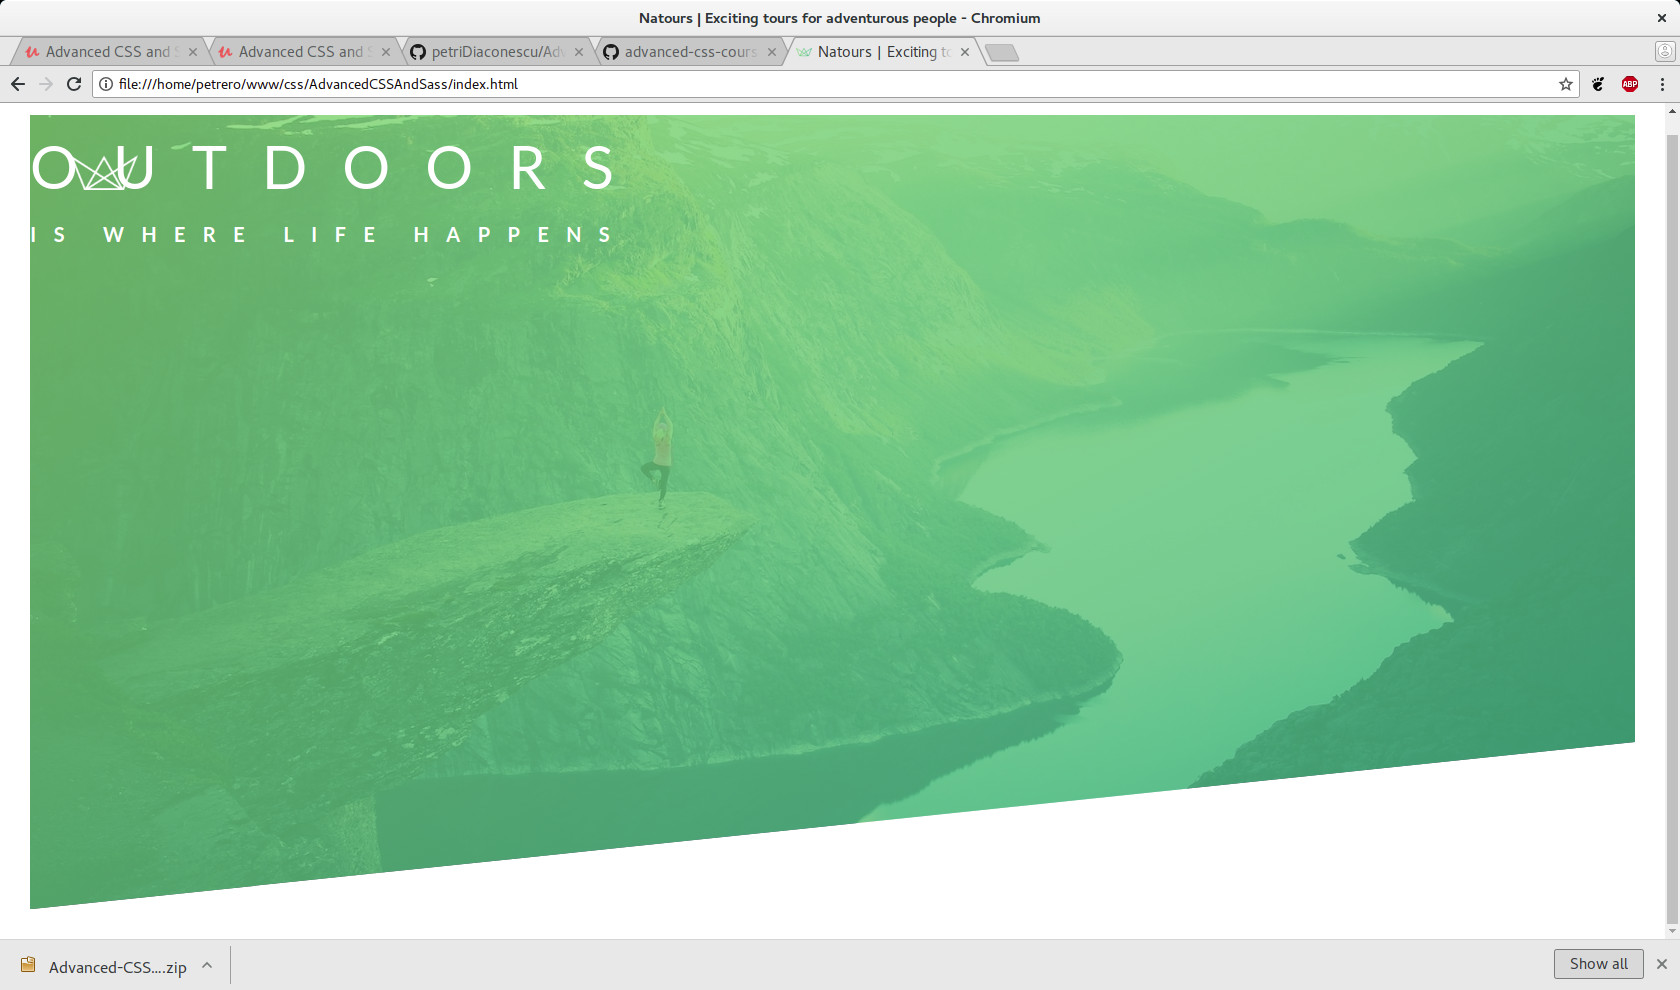
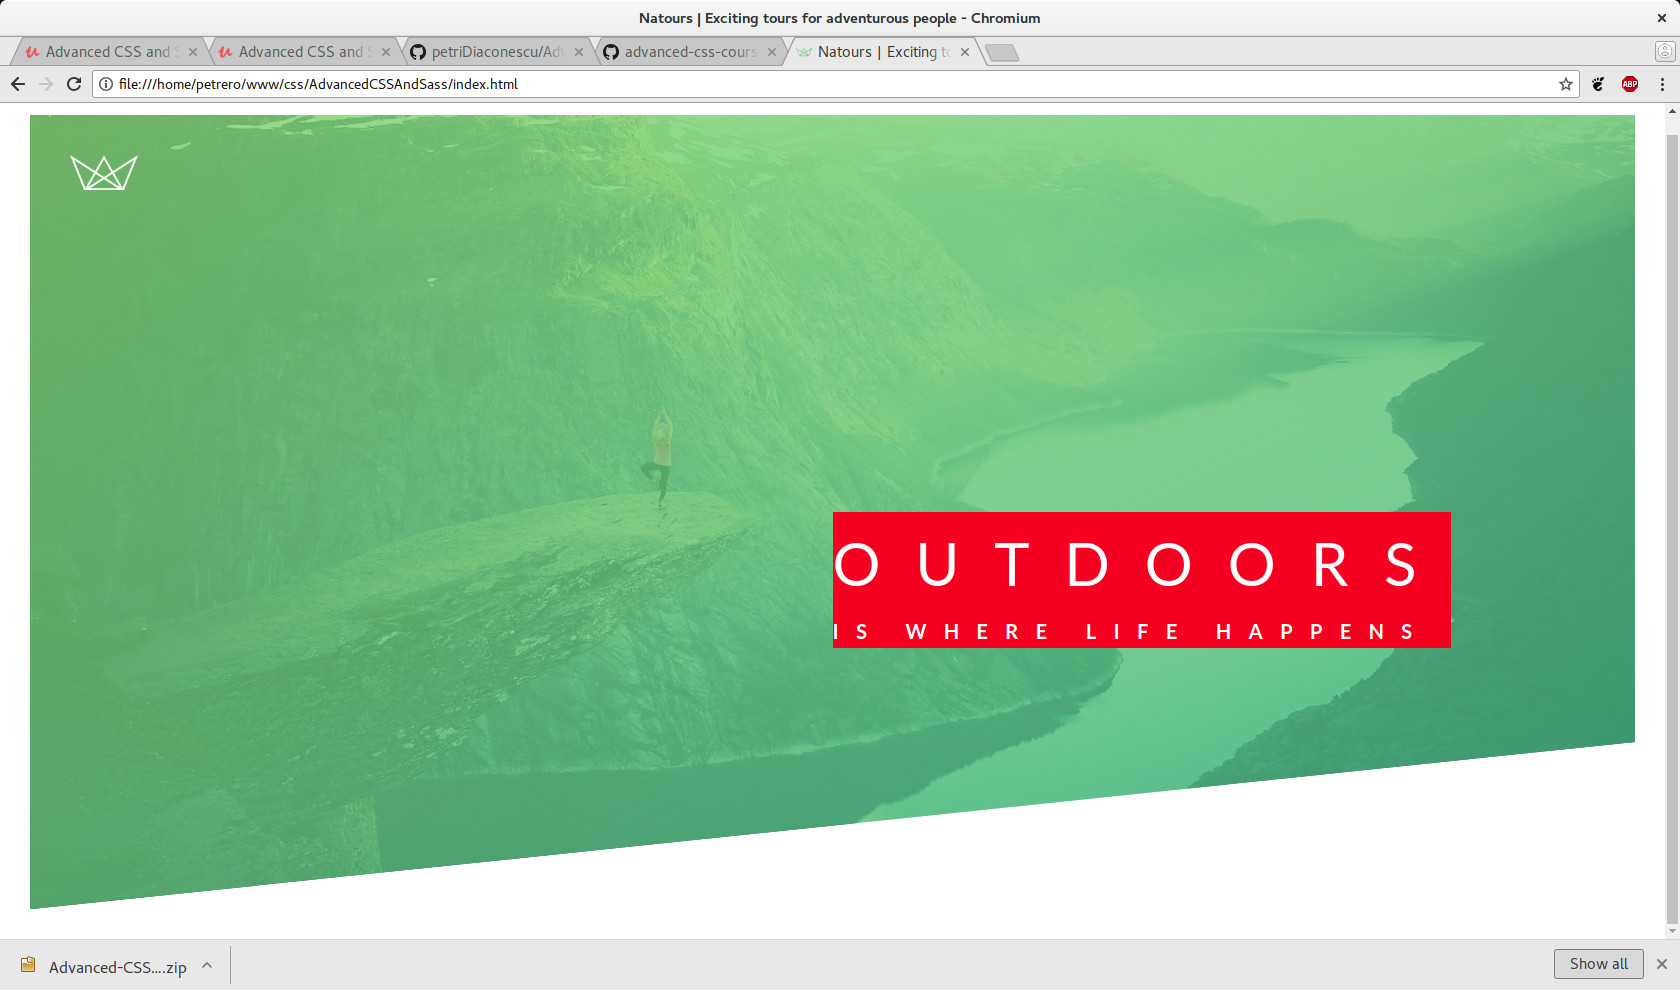
First try to center main text of our header above the header. The left margin is at the half of the width of our header and top margin at the half of the height. We want the middle of the .text-content container to be at the half of both the width and the height of our header.

diff --git a/index.html b/index.html
@@ -18,10 +18,13 @@
           <img src="img/logo-white.png" alt="logo" class="logo" />
         </div>
         
-        <h1 class="heading-primary">
+        <div class="text-box">
+          <h1 class="heading-primary">
           <span class="heading-primary-main">Outdoors</span>
           <span class="heading-primary-sub">is where life happens</span>
         </h1>
+        </div>
+        
       </header>
         
     </body>

diff --git a/css/style.css b/css/style.css
@@ -43,6 +43,13 @@ body {
   height: 35px;
 }
 
+.text-box {
+  position: absolute;
+  top: 50%;
+  left: 50%;
+  background-color: red;
+}
+
 .heading-primary {
   color: #fff;
   text-transform: uppercase;
